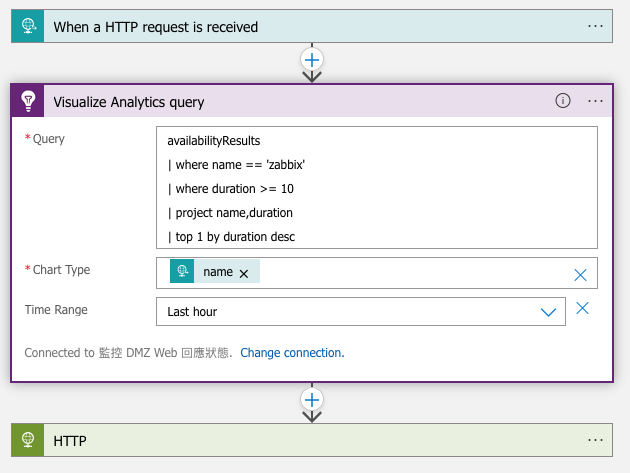
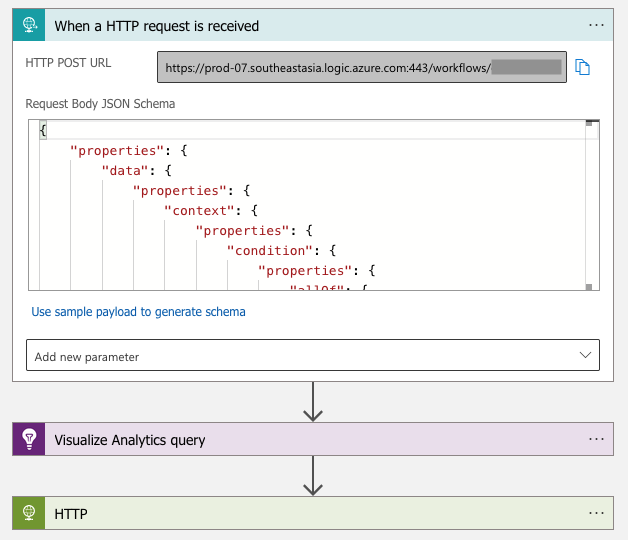
update

Changed region(s): [[0.0, 0.0, 0.9984, 1.0]]

diff --git a/cloud/azure/solution/push-notification-service.md b/cloud/azure/solution/push-notification-service.md
@@ -1,11 +1,32 @@
 # 目的
-對外網頁服務網站回應需在 5 秒內，確保服務水準
+對外網頁服務網站回應需在 2 秒內，確保服務水準
 
 # 架構
 使用 Application Insights 的 Availability Test 監控，透過多個不同地理區域，偵測網站回應時間，並將不合規的結果透過 Line 發送推播
 
 # 步驟
-1. Application Insights
+1. Line token
+    - https://notify-bot.line.me/my/
+2. Logic App
+    - When a HTTP request is received
+        <br><img src="../../../img/cloud/azure/logic-call-api-1.png">
+        <br><img src="../../../img/cloud/azure/logic-call-api-2.png">
+    - Visualize Analytics query
+        - Application Insights ➡ API Access ➡ Create API key
+            - 取得 `API Key` 與 `Application Id`
+            - API key description: `監控 DMZ Web 回應狀態`
+            - Read telemetry: `打勾`
+        <br><img src="../../../img/cloud/azure/logic-call-api-3.png">
+        <br><img src="../../../img/cloud/azure/logic-call-api-4.png">
+    - HTTP
+        - Method: `POST`
+        - URI: `https://notify-api.line.me/api/notify?message=顯示的訊息`
+        - Header
+            - Authorization: `Bearer <Line Token>`
+            - Content-Type: `application/x-www-form-urlencoded`
+        <br><img src="../../../img/cloud/azure/logic-call-api-5.png">
+
+3. Application Insights
     - Availability ➡ Availability Test
     - Create Standard (preview) test
         - Test frequency
@@ -17,27 +38,6 @@
     - Open Rules (Alerts) page
         - Actions
             - URI: `https://prod-07.southeastasia.logic.azure.com:443/workflows/XXX/triggers/manual/paths/...XXX`
-            <br><img src="../../../img/cloud/azure/logic-call-api-4.png">
-2. Line token
-    - https://notify-bot.line.me/my/
-3. Logic App
-    - When a HTTP request is received
-        <br><img src="../../../img/cloud/azure/logic-request.png">
-        <br><img src="../../../img/cloud/azure/logic-call-api-1.png">
-    - Visualize Analytics query
-        - Application Insights ➡ API Access ➡ Create API key
-            - 取得 `API Key` 與 `Application Id`
-            - API key description: `監控 DMZ Web 回應狀態`
-            - Read telemetry: `打勾`
-            <br><img src="../../../img/cloud/azure/logic-call-api-5.png">
-            <br><img src="../../../img/cloud/azure/logic-call-api-2.png">
-    - HTTP
-        - Method: `POST`
-        - URI: `https://notify-api.line.me/api/notify?message=顯示的訊息`
-        - Header
-            - Authorization: `Bearer <Line Token>`
-            - Content-Type: `application/x-www-form-urlencoded`
-    - 整體流程
-        <br><img src="../../../img/cloud/azure/logic-call-api-3.png">
-    - 結果
-        <br><img src="../../../img/cloud/azure/logic-call-api-6.png">
+        <br><img src="../../../img/cloud/azure/logic-call-api-6.png" board="1">
+4. 推播結果
+    <br><img src="../../../img/cloud/azure/logic-call-api-7.png">
